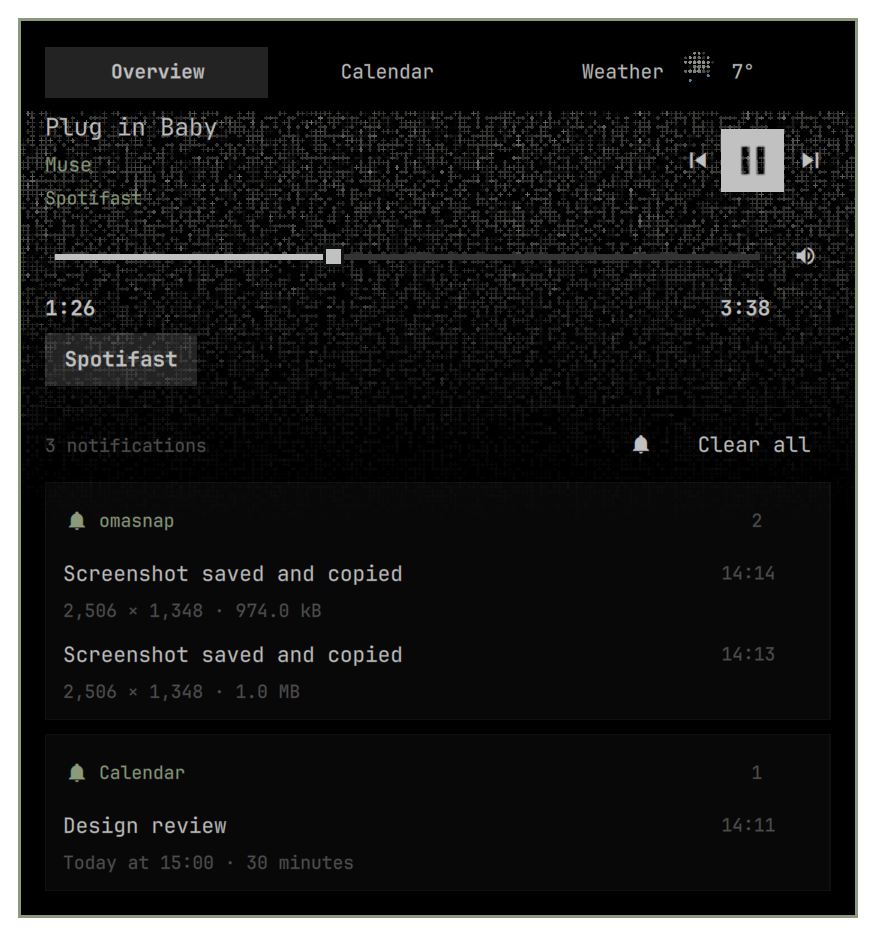
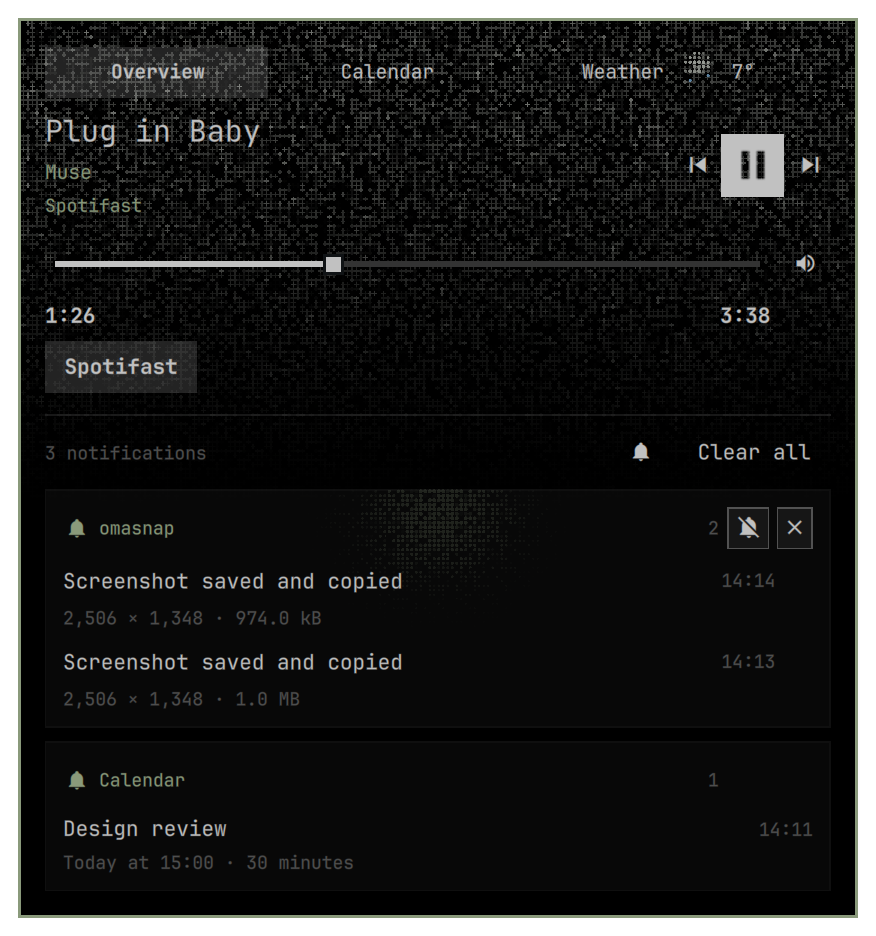
Sync popup page positions and refine media and notification controls
Keep external page selection authoritative instead of feeding intermediate SwipeView indices back into it. Reposition the content after layout and resize, and select a swiped page after its gesture settles. Cover actual visible page coordinates, preview-to-pinned wheel navigation, and source-group dismissal in interaction tests.

diff --git a/tests/Interaction.qml b/tests/Interaction.qml
@@ -60,11 +60,13 @@ ShellRoot {
     property int activateCalls: 0
     property string copied: ""
     property string muted: ""
+    property var removed: []
     function media(action) { mediaCalls++; p.isPlaying = !p.isPlaying }
     function actions(row) { return [] }
     function activate(row) { activateCalls++ }
     function copyCode(row,code) { copied = code }
     function mute(s) { muted = s }
+    function remove(key) { removed=removed.concat([key]);allEntries=allEntries.filter(function(row){return row.key!==key}) }
   }
   Commons.Translations { id: strings; directory: Qt.resolvedUrl("Island/i18n") }
   FloatingWindow {
@@ -87,7 +89,7 @@ ShellRoot {
   FloatingWindow {
     id: calendarWin
     visible: false
-    implicitWidth: 450; implicitHeight: 440
+    implicitWidth: 450; implicitHeight: calendarSurface.testPages ? pages.implicitHeight+24 : 440
     color: Commons.Color.popups.background
     Item {
       id: calendarSurface
@@ -97,7 +99,7 @@ ShellRoot {
       Island.CalendarView { id: calendar; visible: !calendarSurface.testPages; x: 12; y: 12; width: parent.width-24; strings: strings }
       Island.PopupPages {
         id: pages
-        anchors.fill: parent; anchors.margins: 12
+        x: 12; y: 12; width: parent.width-24; height: implicitHeight
         visible: calendarSurface.testPages
         service: service; strings: strings; expanded: true; hovering: true
         onCalendarRequested: {pages.weather=false;pages.calendar=true}
@@ -115,6 +117,7 @@ ShellRoot {
       wait(200)
       var toggle=findChild(media,"mediaToggle")
       check(toggle !== null,"missing toggle")
+      check(findChild(media,"mediaTitle").font.pixelSize===Math.round(Commons.Style.font.title*1.25),"track title did not use its larger size")
       mouseClick(toggle)
       check(service.mediaCalls===1,"toggle click did not reach player: " + service.mediaCalls)
       var musicGlow=findChild(media,"mediaSpotlight")
@@ -216,6 +219,13 @@ ShellRoot {
       service.player=null
       wait(20)
       check(!panelPlayer.visible,"disconnected player is visible")
+      group=findChild(composed,"notificationGroup-Test")
+      mouseMove(group,group.width/2,10)
+      wait(160)
+      var groupDismiss=findChild(group,"groupDismiss"), groupBell=findChild(group,"groupMute")
+      check(groupDismiss.x>groupBell.x && groupDismiss.opacity>0.9,"group close is not to the right of mute")
+      mouseClick(groupDismiss)
+      check(service.removed.length===4 && service.allEntries.length===0,"group close did not dismiss all source notifications")
       service.allEntries=[]
       wait(20)
       check(!findChild(composed,"notificationCount").visible,"zero notification count is visible")
@@ -253,20 +263,25 @@ ShellRoot {
       wait(100)
       var pager=findChild(pages,"islandPageSwipe")
       mouseDrag(pager,pager.width*0.8,pager.height*0.85,-pager.width*0.65,0,Qt.LeftButton)
-      wait(350)
+      tryVerify(function(){return pages.calendar && Math.abs(findChild(pages,"islandCalendar").mapToItem(pager,0,0).x)<1},1200)
       check(pages.calendar,"horizontal swipe did not open calendar")
+      check(Math.abs(findChild(pages,"islandCalendar").mapToItem(pager,0,0).x)<1,"calendar content did not move into view after swipe")
       mouseWheel(pager,pager.width/2,pager.height/2,120,0,Qt.NoButton)
       wait(350)
       check(!pages.calendar,"horizontal wheel did not return to inbox")
+      check(Math.abs(findChild(pages,"islandMediaPlayer").mapToItem(pager,0,0).x)<1,"inbox content did not move into view after wheel")
       mouseWheel(pager,pager.width/2,pager.height*0.85,0,-120,Qt.NoButton)
       wait(350)
       check(!pages.calendar,"vertical scrolling switched popup pages")
+      check(Math.abs(findChild(pages,"islandMediaPlayer").mapToItem(pager,0,0).x)<1,"vertical wheel moved page contents")
       mouseWheel(pager,pager.width/2,pager.height/2,0,-120,Qt.NoButton,Qt.ShiftModifier)
       wait(350)
       check(pages.calendar,"Shift+wheel did not open calendar")
-      mouseWheel(pager,pager.width/2,pager.height/2,-120,0,Qt.NoButton)
-      wait(350)
-      check(pages.weather && !pages.calendar,"horizontal wheel did not open weather")
+      check(Math.abs(findChild(pages,"islandCalendar").mapToItem(pager,0,0).x)<1,"calendar content did not move into view after wheel")
+      mouseDrag(pager,pager.width*0.8,pager.height*0.85,-pager.width*0.65,0,Qt.LeftButton)
+      tryVerify(function(){return pages.weather && Math.abs(findChild(pages,"islandWeather").mapToItem(pager,0,0).x)<1},1200)
+      check(pages.weather && !pages.calendar,"horizontal swipe did not open weather")
+      check(Math.abs(findChild(pages,"islandWeather").mapToItem(pager,0,0).x)<1,"weather content did not move into view after swipe")
       var weatherView=findChild(pages,"islandWeather")
       check(findChild(weatherView,"weatherHeroScene").condition===5,"weather did not select rain scene")
       check(findChild(weatherView,"weatherTemperature").text.indexOf("7")>=0,"weather temperature missing")
@@ -277,15 +292,25 @@ ShellRoot {
       check(fakeWeather.searched==="Paris","weather city search did not run")
       mouseClick(findChild(weatherView,"weatherAuto"))
       check(fakeWeather.autoCalls===1,"weather auto-location control failed")
-      mouseClick(findChild(pages,"islandTabOverview"))
+      var calendarTab=findChild(pages,"calendarOpen")
+      calendarTab.clicked()
+      wait(350)
+      check(pages.calendar && Math.abs(findChild(pages,"islandCalendar").mapToItem(pager,0,0).x)<1,"weather-to-calendar tab switched height without contents")
+      var weatherTab=findChild(pages,"weatherOpen")
+      weatherTab.clicked()
+      wait(350)
+      check(pages.weather && Math.abs(weatherView.mapToItem(pager,0,0).x)<1,"calendar-to-weather tab switched height without contents")
+      var overviewTab=findChild(pages,"islandTabOverview")
+      overviewTab.clicked()
       wait(350)
       check(!pages.weather && !pages.calendar,"weather back did not return to inbox")
+      check(Math.abs(findChild(pages,"islandMediaPlayer").mapToItem(pager,0,0).x)<1,"overview tab did not move contents into view")
       mouseWheel(pager,pager.width/2,pager.height/2,0,-120,Qt.NoButton,Qt.ShiftModifier)
       wait(350)
       check(pages.calendar,"calendar did not reopen after weather")
       var pageCalendar=findChild(pages,"islandCalendar")
       mouseDrag(pager,pager.width*0.15,pager.height*0.45,pager.width*0.65,0,Qt.LeftButton)
-      wait(350)
+      tryVerify(function(){return !pages.calendar && Math.abs(findChild(pages,"islandMediaPlayer").mapToItem(pager,0,0).x)<1},1200)
       check(!pages.calendar,"reverse swipe did not return to inbox")
       check(!findChild(pageCalendar,"calendarSpotlight").rippling,"swipe triggered a calendar click wave")
       var pageSeek=findChild(pages,"mediaSeek")
@@ -300,5 +325,5 @@ ShellRoot {
     }
   }
   Timer { interval: 300; running: true; onTriggered: test.test_controls() }
-  Timer { interval: 10000; running: true; onTriggered: { console.log("ISLAND_INTERACTION_TIMEOUT"); Qt.quit() } }
+  Timer { interval: 13000; running: true; onTriggered: { console.log("ISLAND_INTERACTION_TIMEOUT"); Qt.quit() } }
 }

diff --git a/plugin/PopupPages.qml b/plugin/PopupPages.qml
@@ -23,20 +23,49 @@ Item {
   property real wheelDistance: 0
   property int wheelDirection: 0
   property bool wheelLatched: false
+  property bool positioned: false
+  property bool navigating: false
+  property bool gesturing: false
   signal expandRequested()
   signal calendarRequested()
   signal weatherRequested()
   signal inboxRequested()
-  readonly property real pageProgress: pager.width>0 ? Math.max(0,Math.min(1,Math.abs((pager.contentItem.contentX-pager.contentItem.originX)/pager.width))) : (calendar ? 1 : 0)
+  readonly property real pageProgress: pager.width>0 && pager.itemAt(0) ? Math.max(0,Math.min(1,Math.abs((pager.contentItem.contentX-pager.itemAt(0).x)/pager.width))) : (calendar || weather ? 1 : 0)
   readonly property real contentTop: tabs.visible ? tabs.implicitHeight+Style.space(8) : 0
   implicitHeight: contentTop+(weather ? weatherPage.implicitHeight : calendar ? calendarPage.implicitHeight : inbox.implicitHeight)
   clip: true
   function showToday() { calendarPage.showToday() }
   function handleCalendarKey(event) { return calendarPage.handleKey(event) }
   function syncPage() {
-    if (!ready) return
+    if(!ready || pager.width<=0) return
+    var view=pager.contentItem
+    if(view.dragging || view.flicking) return
     var next=Math.min(lastPage,weather ? 2 : calendar ? 1 : 0)
-    if (pager.currentIndex!==next) { pager.contentItem.cancelFlick(); pager.setCurrentIndex(next) }
+    pageMotion.stop()
+    var from=view.contentX
+    pager.setCurrentIndex(next)
+    view.forceLayout()
+    var page=pager.itemAt(next)
+    if(!page) return
+    var target=page.x
+    if(!positioned || Math.abs(from-target)<0.5 || Style.reduceMotion) view.contentX=target
+    else {
+      view.contentX=from
+      pageMotion.from=from;pageMotion.to=target;pageMotion.restart()
+    }
+    positioned=true
+  }
+  function scheduleSync() { if(ready) Qt.callLater(syncPage) }
+  function finishGesture() {
+    if(navigating || !gesturing) return
+    gesturing=false
+    var closest=0,distance=Infinity
+    pager.contentItem.forceLayout()
+    for(var i=0;i<=lastPage;i++) {
+      var page=pager.itemAt(i),delta=page ? Math.abs(pager.contentItem.contentX-page.x) : Infinity
+      if(delta<distance) {distance=delta;closest=i}
+    }
+    requestPage(closest)
   }
   function handleWheel(event) {
     var x=event.pixelDelta.x || event.angleDelta.x
@@ -58,14 +87,22 @@ Item {
     requestPage(next)
   }
   function requestPage(index) {
+    gesturing=false
+    navigating=true
+    pageMotion.stop()
+    pager.contentItem.cancelFlick()
+    navigating=false
     if(index===2 && !weather) weatherRequested()
     else if(index===1 && !calendar) calendarRequested()
     else if(index===0 && (calendar || weather)) inboxRequested()
+    scheduleSync()
   }
-  onCalendarChanged: syncPage()
-  onWeatherChanged: syncPage()
-  onLastPageChanged: if(ready) {if(weather && lastPage<2) inboxRequested();else syncPage()}
-  Component.onCompleted: { ready = true; syncPage() }
+  onCalendarChanged: scheduleSync()
+  onWeatherChanged: scheduleSync()
+  onWidthChanged: scheduleSync()
+  onHeightChanged: scheduleSync()
+  onLastPageChanged: if(ready) {if(weather && lastPage<2) inboxRequested();else scheduleSync()}
+  Component.onCompleted: { ready = true; scheduleSync() }
 
   RowLayout {
     id: tabs
@@ -110,12 +147,10 @@ Item {
     x: 0; y: root.contentTop
     width: parent.width; height: Math.max(0,parent.height-y)
     interactive: root.expanded || root.hovering
-    onCurrentIndexChanged: {
-      if(!root.ready) return
-      if(currentIndex>root.lastPage) { setCurrentIndex(root.lastPage); return }
-      root.requestPage(currentIndex)
-    }
-    Binding { target: pager.contentItem; property: "highlightMoveDuration"; value: Style.duration(230) }
+    // Native flicking owns gestures; explicit navigation owns the settled
+    // position. Do not let ListView's highlight fight the page transition.
+    Binding { target: pager.contentItem; property: "highlightRangeMode"; value: ListView.NoHighlightRange }
+    Binding { target: pager.contentItem; property: "highlightFollowsCurrentItem"; value: false }
     IslandContent {
       id: inbox
       service: root.service; strings: root.strings; bar: root.bar
@@ -145,6 +180,13 @@ Item {
       radialBraille: root.radialBraille
       onBackRequested: root.inboxRequested()
     }
+  }
+  NumberAnimation { id: pageMotion; target: pager.contentItem; property: "contentX"; duration: Style.duration(230); easing.type: Easing.OutCubic }
+  Connections {
+    target: pager.contentItem
+    function onDraggingChanged() {if(pager.contentItem.dragging) {root.gesturing=true;pageMotion.stop()}}
+    function onMovementEnded() {root.finishGesture()}
+    function onContentWidthChanged() {root.scheduleSync()}
   }
   // Wheel-only overlay: horizontal events reach us before child Flickables;
   // pointer presses and vertical scrolling continue to the page underneath.

diff --git a/tests/Motion.qml b/tests/Motion.qml
@@ -111,6 +111,7 @@ ShellRoot {
         var tabs=test.findChild(widget,"islandTabs"), player=test.findChild(widget,"islandMediaPlayer")
         if(!tabs.visible || player.mapToItem(tabs.parent,0,0).y<tabs.y+tabs.height || popup.frameSuppressed) { console.log("ISLAND_MOTION_FAIL: tabs are not above music or persistent frame is missing");widget.close();Qt.quit();return }
         var artwork = test.findChild(widget,"islandPopupArtwork")
+        if(artwork.mapToItem(tabs.parent,0,0).y>tabs.y || artwork.height<tabs.height+player.height) { console.log("ISLAND_MOTION_FAIL: music backdrop does not extend behind tabs");widget.close();Qt.quit();return }
         if(!service.playing && (artwork.opacity>0.01 || test.findChild(widget,"islandClockArtwork").opacity>0.01)) {
           console.log("ISLAND_MOTION_FAIL: music backdrop visible while playback is paused",artwork.opacity)
           widget.close(); Qt.quit(); return
@@ -130,11 +131,11 @@ ShellRoot {
         test.findChild(widget,"islandTabOverview").clicked()
       }
       if(tick===106) {
-        if(widget.calendarMode || !widget.pinned) { console.log("ISLAND_MOTION_FAIL: calendar back changed panel lifetime"); widget.close(); Qt.quit(); return }
+        if(widget.calendarMode || !widget.pinned || Math.abs(test.findChild(widget,"islandMediaPlayer").mapToItem(test.findChild(widget,"islandPageSwipe"),0,0).x)>1) { console.log("ISLAND_MOTION_FAIL: calendar back changed panel lifetime"); widget.close(); Qt.quit(); return }
         test.findChild(widget,"calendarOpen").clicked()
       }
       if(tick===122) {
-        if(!widget.calendarMode) { console.log("ISLAND_MOTION_FAIL: calendar glyph did not switch page"); widget.close(); Qt.quit(); return }
+        if(!widget.calendarMode || Math.abs(test.findChild(widget,"islandCalendar").mapToItem(test.findChild(widget,"islandPageSwipe"),0,0).x)>1) { console.log("ISLAND_MOTION_FAIL: calendar glyph did not switch visible page"); widget.close(); Qt.quit(); return }
         test.findChild(widget,"islandClock").triggerPress(Qt.MiddleButton)
       }
       if(tick===140) {
@@ -169,7 +170,21 @@ ShellRoot {
         console.log("CALENDAR_ROUTING_PASS")
         console.log("MUSIC_BACKDROP_PASS")
         console.log("TOP_TABS_AND_TRANSPARENT_TOAST_PASS")
-        widget.close(); Qt.quit()
+        widget.close(); widget.contentExpanded=false; widget.hoverOpen=true
+      }
+      if(tick===280) {
+        var pager=test.findChild(widget,"islandPageSwipe")
+        test.mouseWheel(pager,pager.width/2,pager.height/2,-120,0,Qt.NoButton)
+      }
+      if(tick===310) {
+        var pager=test.findChild(widget,"islandPageSwipe")
+        if(!widget.calendarMode || Math.abs(test.findChild(widget,"islandCalendar").mapToItem(pager,0,0).x)>1) {console.log("ISLAND_MOTION_FAIL: hover-to-pinned wheel resized without moving calendar contents");widget.close();Qt.quit();return}
+        test.mouseWheel(pager,pager.width/2,pager.height/2,120,0,Qt.NoButton)
+      }
+      if(tick===340) {
+        if(widget.calendarMode || Math.abs(test.findChild(widget,"islandMediaPlayer").mapToItem(test.findChild(widget,"islandPageSwipe"),0,0).x)>1) {console.log("ISLAND_MOTION_FAIL: wheel did not return visible overview");widget.close();Qt.quit();return}
+        console.log("RESIZING_PAGE_WHEEL_PASS")
+        widget.close();Qt.quit()
       }
     }
   }

diff --git a/plugin/NotificationCard.qml b/plugin/NotificationCard.qml
@@ -17,6 +17,7 @@ Rectangle {
   property bool radialBraille: true
   property bool grouped: false
   property bool compact: false
+  property bool individualDismiss: true
   property var feedback: brailleFeedback
   property string copied: ""
   signal expandRequested()
@@ -55,7 +56,7 @@ Rectangle {
       Layout.fillWidth: true
       PlainText { Layout.fillWidth: true; text: root.row.summary; font.pixelSize: root.compact ? Style.font.bodySmall : Style.font.body; wrapMode: Text.Wrap; maximumLineCount: root.expanded ? 8 : 1; elide: Text.ElideRight }
       PlainText { visible: root.grouped && !root.compact; text: new Date(root.row.ts*1000).toLocaleTimeString(Qt.locale(Commons.I18n.formatLocale),"HH:mm"); color: Commons.Color.muted; font.pixelSize: Style.font.caption }
-      FeedbackButton { feedback: root.feedback; radius: Math.min(Style.cornerRadius,Style.space(4)); visible: root.grouped && root.expanded; opacity: hover.hovered ? 1 : 0; enabled: opacity > 0; iconText: ""; tooltipText: root.strings.t("delete"); horizontalPadding: Style.space(3); verticalPadding: 0; focusable: true; onClicked: root.service.remove(root.row.key) }
+      FeedbackButton { feedback: root.feedback; radius: Math.min(Style.cornerRadius,Style.space(4)); visible: root.grouped && root.expanded && root.individualDismiss; opacity: hover.hovered ? 1 : 0; enabled: opacity > 0; iconText: ""; tooltipText: root.strings.t("delete"); horizontalPadding: Style.space(3); verticalPadding: 0; focusable: true; onClicked: root.service.remove(root.row.key) }
     }
     PlainText { Layout.fillWidth: true; visible: text !== ""; text: Model.plain(root.row.body); font.pixelSize: Style.font.caption; color: Commons.Color.muted; wrapMode: Text.Wrap; maximumLineCount: root.compact ? 1 : root.expanded ? 1000 : 2; elide: Text.ElideRight }
     Item {

diff --git a/plugin/NotificationGroup.qml b/plugin/NotificationGroup.qml
@@ -18,6 +18,10 @@ Rectangle {
   property int limit: 3
   readonly property var feedback: brailleFeedback
   signal expandRequested()
+  function dismissGroup() {
+    var backend=service,keys=group.rows.map(function(row){return row.key})
+    keys.forEach(function(key){backend.remove(key)})
+  }
   objectName: "notificationGroup-" + group.source
   color: compact ? "transparent" : Style.normalFillFor(Commons.Color.foreground,Commons.Color.accent)
   border.width: compact ? 0 : Math.max(1,Style.space(1))
@@ -55,6 +59,18 @@ Rectangle {
         onClicked: root.service.mute(root.group.source)
         Behavior on opacity { NumberAnimation { duration: Style.duration(120) } }
       }
+      ActionButton {
+        objectName: "groupDismiss"
+        feedback: root.feedback
+        visible: !root.compact
+        opacity: hover.hovered ? 1 : 0
+        enabled: hover.hovered
+        iconText: ""
+        tooltipText: root.strings.t("deleteGroup")
+        horizontalPadding: Style.space(5); verticalPadding: Style.space(2)
+        onClicked: root.dismissGroup()
+        Behavior on opacity { NumberAnimation { duration: Style.duration(120) } }
+      }
     }
     Repeater {
       model: root.group.rows
@@ -74,6 +90,7 @@ Rectangle {
           expanded: root.expanded
           grouped: true
           compact: root.compact
+          individualDismiss: root.group.total>1
           radialBraille: root.radialBraille
           feedback: root.feedback
           onExpandRequested: root.expandRequested()

diff --git a/plugin/MediaCard.qml b/plugin/MediaCard.qml
@@ -43,7 +43,7 @@ Item {
       ColumnLayout {
         Layout.fillWidth: true
         spacing: Style.space(4)
-        PlainText { Layout.fillWidth: true; text: root.player ? root.player.trackTitle || root.strings.t("untitled") : root.strings.t("noMusic"); font.pixelSize: Style.font.title }
+        PlainText { objectName: "mediaTitle"; Layout.fillWidth: true; text: root.player ? root.player.trackTitle || root.strings.t("untitled") : root.strings.t("noMusic"); font.pixelSize: Math.round(Style.font.title*1.25) }
         PlainText { Layout.fillWidth: true; text: root.player ? root.player.trackArtist || root.player.identity : root.strings.t("musicApps"); color: root.player ? Commons.Color.accent : Commons.Color.muted; font.pixelSize: Style.font.bodySmall }
         PlainText { Layout.fillWidth: true; visible: root.expanded && root.player !== null; text: root.player ? root.player.identity : ""; font.pixelSize: Style.font.caption; color: Commons.Color.accent }
       }

diff --git a/plugin/BarWidget.qml b/plugin/BarWidget.qml
@@ -127,8 +127,8 @@ BarWidget {
     ArtworkBackground {
       objectName: "islandPopupArtwork"
       anchors.left: parent.left; anchors.right: parent.right; anchors.top: parent.top
-      anchors.leftMargin: -preview.padding; anchors.rightMargin: -preview.padding; anchors.topMargin: previewContent.contentTop>0 ? previewContent.contentTop : -preview.padding
-      height: Math.min(preview.contentHeight,Style.space(root.contentExpanded ? 250 : 145))
+      anchors.leftMargin: -preview.padding; anchors.rightMargin: -preview.padding; anchors.topMargin: -preview.padding
+      height: Math.min(preview.contentHeight,Style.space(root.contentExpanded ? 250 : 145)+previewContent.contentTop)
       reveal: 1-previewContent.pageProgress
       visible: reveal>0 && (root.pinned || root.hoverOpen || root.alertKind === "media")
       service: root.service

diff --git a/tests/qml-smoke.py b/tests/qml-smoke.py
@@ -7,6 +7,6 @@ with tempfile.TemporaryDirectory(prefix='island-qml-') as tmp:
     (root/'Island').symlink_to(project/'plugin')
     (root/'shell.qml').write_text((project/'tests/Interaction.qml').read_text())
     env=os.environ.copy();env['QT_QPA_PLATFORM']='offscreen';env['QT_QUICK_BACKEND']='software'
-    result=subprocess.run(['qs','-p',str(root),'--no-color'],env=env,stdout=subprocess.PIPE,stderr=subprocess.STDOUT,text=True,timeout=12)
+    result=subprocess.run(['qs','-p',str(root),'--no-color'],env=env,stdout=subprocess.PIPE,stderr=subprocess.STDOUT,text=True,timeout=15)
     print(result.stdout)
     if 'ISLAND_INTERACTION_PASS' not in result.stdout or 'FAIL!' in result.stdout: raise SystemExit(1)

diff --git a/README.md b/README.md
@@ -7,8 +7,8 @@
 - Погода — третья страница поп-апа, со сводкой в основной панели. Вместо погодных глифов — собственные брайлевые сцены: солнце, луна, облака, туман, морось, дождь, снег и гроза. Дождь и снег движутся, облака слегка плывут, солнце и звёзды переливаются. Есть текущая температура, «ощущается», ветер, влажность и прогноз на три следующих дня.
 - Счётчик уведомлений показывается только при количестве больше нуля.
 - Всплывающее уведомление — компактный текст без заливки, рамки и фоновых карточек: источник, заголовок и одна строка подробностей. При нескольких активных уведомлениях виден счётчик `+N`. Наведение раскрывает обычное превью с вкладками, клик — историю. Новый трек заменяет часы на `Now Playing` на три секунды.
-- Плеер отображается только при наличии играющего или приостановленного трека. При остановке, отсутствии трека или отключении приложения остаются уведомления. Музыкальный фон появляется только при воспроизведении трека с метаданными; на паузе плеер остаётся, а фон плавно затухает.
-- Наведение раскрывает компактный плеер и до трёх сообщений, сгруппированных по источнику. Остальные обозначены счётчиком.
+- Плеер отображается только при наличии играющего или приостановленного трека. При остановке, отсутствии трека или отключении приложения остаются уведомления. Крупный заголовок трека дополняет музыкальный фон, который проходит под верхними вкладками. Фон появляется только при воспроизведении трека с метаданными; на паузе плеер остаётся, а фон плавно затухает.
+- Наведение раскрывает компактный плеер и до трёх сообщений, сгруппированных по источнику. Остальные обозначены счётчиком. При наведении справа от общего колокольчика группы появляется крестик: он удаляет все уведомления этого источника. В группе из нескольких сообщений остаются отдельные крестики у строк.
 - Поп-апы появляются из маленькой плашки: короткий выход сверху, затем одновременный рост вниз и в стороны с мягким easing и постепенным проявлением содержимого. Клик закрепляет то же окно с плавным изменением размера. Доступны перемотка, громкость, выбор источника, история и действия отправителя. Время трека выделено контрастнее, а кнопка play/pause имеет прозрачный знак в заливке. Скругления следуют системному радиусу: при нуле элементы прямоугольные, при положительном значении play/pause круглая, а небольшие кнопки имеют ограниченный радиус. Клик по сообщению открывает приложение; действия появляются при наведении справа. Мьют — один глиф в заголовке группы. При наведении карточка подсвечивается приглушённым брайлевым спотлайтом с мягким колышущимся краем. Такой же спотлайт и расходящаяся волна при клике есть у календаря, уведомлений и плеера. Уведомления и календарь используют акцент темы; в плеере точки окрашены по обложке с тем же радиальным затуханием и примесью акцента 18%. Если обложка недоступна, используется акцент темы. Волны запускаются на кликах и действиях кнопок, но не на перетаскивании шкал или свайпе страниц.
 - Отдельная обложка в плеере отсутствует; остаётся только фон верхней части поп-апа из неподвижных точек, затухающий вниз. Брайлевые рисунки переливаются по уровню аудиовыхода. Примесь акцента темы — 18%; размытого изображения под точками нет.
 - Шестизначные и разделённые дефисами коды можно копировать. Кодовые уведомления редактируются перед записью на диск; буфер кода помечен sensitive и очищается через минуту, если пользователь не скопировал другое.
